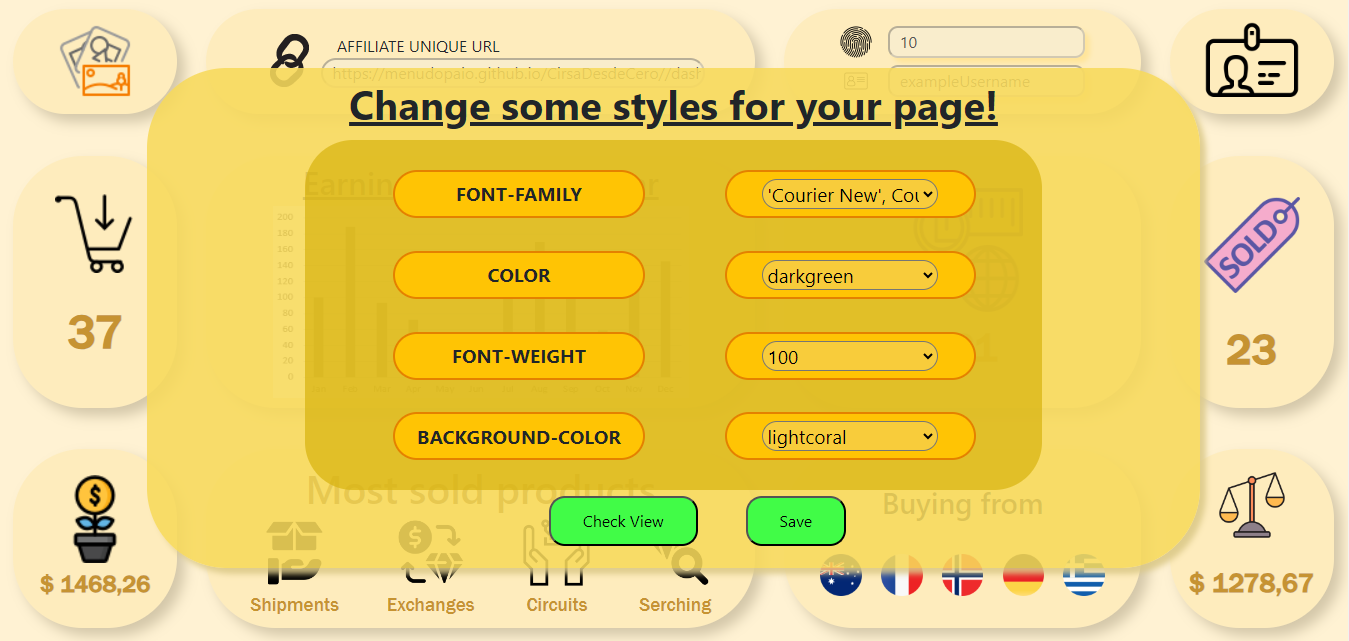
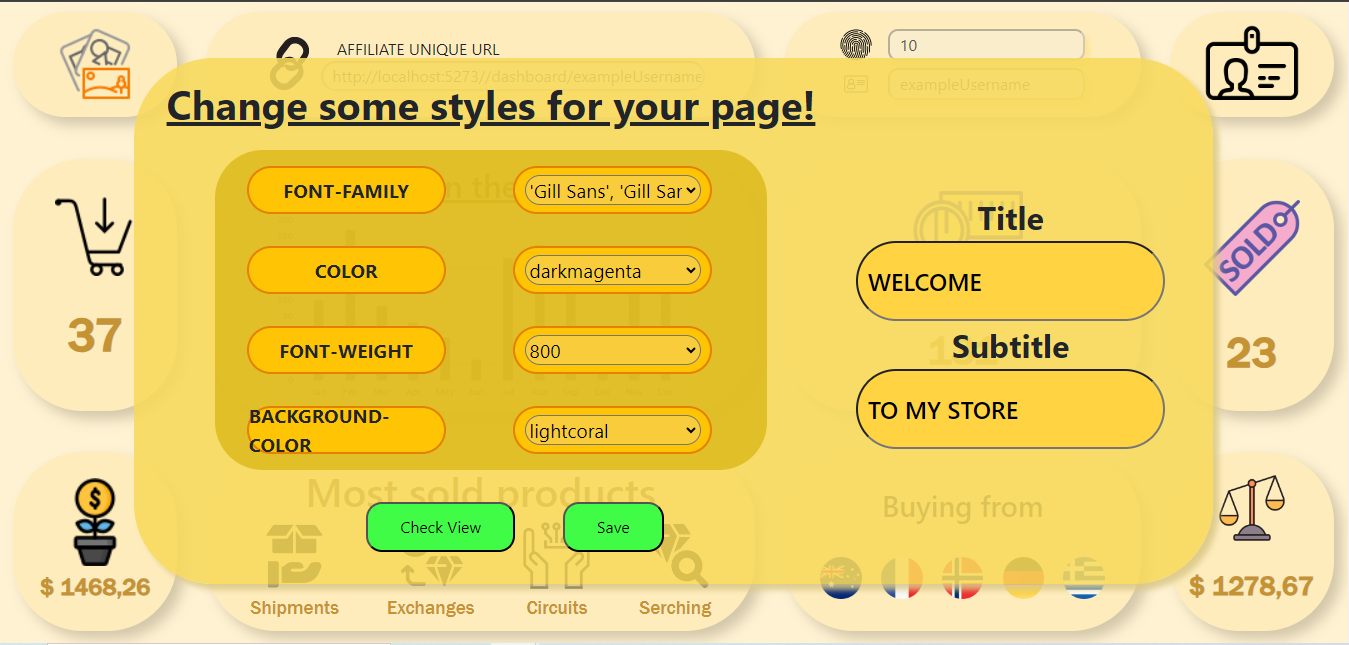
Añadidos editores de texto greetings

diff --git a/wwwroot/css/app.css b/wwwroot/css/app.css
@@ -590,8 +590,8 @@ h1:focus {
     align-items: center;
     justify-self: center;
     align-self: center;
-    width: 85%;
-    height: 80%;
+    width: 80%;
+    height: 82%;
     border-radius: 5rem;
     background-color: rgba(247, 218, 91, 0.877);
     box-shadow: 0.4rem 0.4rem 6px rgba(219, 200, 136, 0.877);
@@ -599,9 +599,37 @@ h1:focus {
 .transH {
     display: flex;
     flex-direction: column;
+    justify-content: space-around;
+    align-items: center;
+    margin: 1rem 1rem;
 }
-.trans2 input text {
-    background-color: black !important;
+.trans1 {
+    flex: 2;
+    float: flex-start;
+    margin-left: 2rem;
+    margin-top: 2rem;
+}
+.trans1 div {
+    margin: 1rem 1rem;
+}
+.trans2 {
+    flex: 1;
+    float: flex-end;
+    margin-right: 2.5rem;
+}
+.trans2 label {
+    font-size: 2rem;
+    font-weight: 700;
+}
+.customLabel {
+    font-size: 1.5rem;
+    font-weight: 600;
+}
+.trans input {
+    height: 5rem;
+    width: 95%;
+    border-radius: 3rem;
+    background-color: #ffd341;
 }
 .trans text {
     font-size: 2.5rem;
@@ -612,8 +640,8 @@ h1:focus {
     display: flex;
     flex-direction: column;
     justify-content: space-evenly;
-    height: 70%;
-    width: 70%;
+    height: 75%;
+    width: 85%;
     border-radius: 3rem;
     background-color: rgba(216, 179, 14, 0.707);
 }
